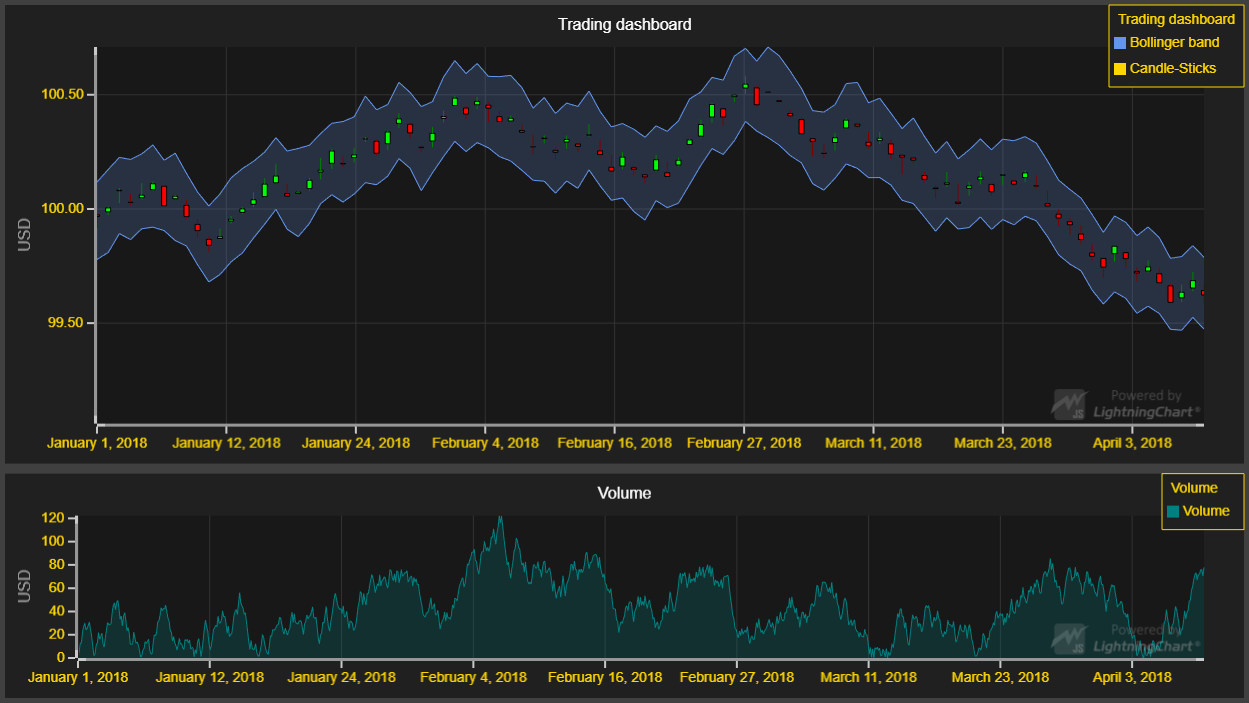
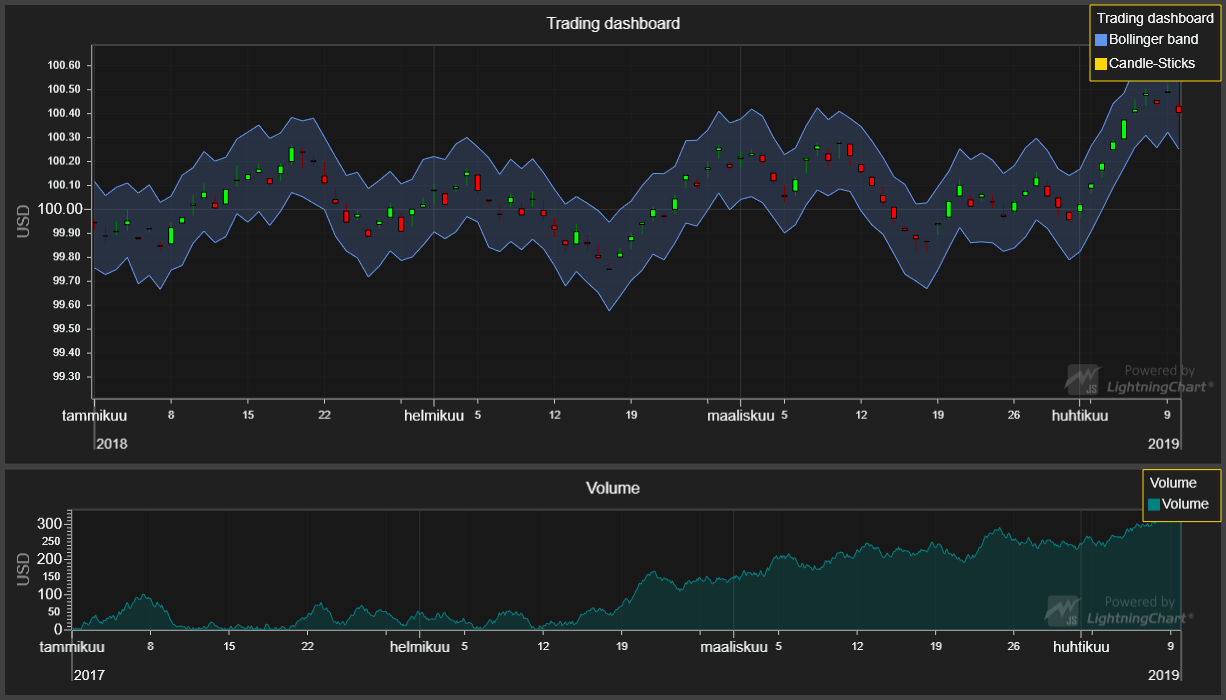
LCJS 2.0.0

diff --git a/src/index.js b/src/index.js
@@ -13,7 +13,8 @@ const {
     SolidLine,
     emptyLine,
     ColorRGBA,
-    UIOrigins
+    UIOrigins,
+    Themes
 } = lcjs
 
 // Import data-generator from 'xydata'-library.
@@ -24,6 +25,7 @@ const {
 
 // Create dashboard to house two charts
 const db = lightningChart().Dashboard({
+    // theme: Themes.dark 
     numberOfRows: 2,
     numberOfColumns: 1
 })
@@ -35,11 +37,19 @@ const chartOHLC = db.createChartXY({
     columnIndex: 0,
     rowIndex: 0,
     columnSpan: 1,
-    rowSpan: 1,
-    chartXYOptions: { defaultAxisXTickStrategy: AxisTickStrategies.DateTime(dateOrigin) }
+    rowSpan: 1
 })
+// Use DateTime TickStrategy with custom date origin for X Axis.
+chartOHLC
+    .getDefaultAxisX()
+    .setTickStrategy(
+        AxisTickStrategies.DateTime,
+        (tickStrategy) => tickStrategy.setDateOrigin(dateOrigin)
+    )
+// Modify Chart.
+chartOHLC
     .setTitle('Trading dashboard')
-    // Style AutoCursor using preset.
+    //Style AutoCursor.
     .setAutoCursor(cursor => {
         cursor.disposeTickMarkerY()
         cursor.setGridStrokeYStyle(emptyLine)
@@ -139,10 +149,17 @@ const chartVolume = db.createChartXY({
     columnIndex: 0,
     rowIndex: 1,
     columnSpan: 1,
-    rowSpan: 1,
-    chartXYOptions: { defaultAxisXTickStrategy: AxisTickStrategies.DateTime(dateOrigin) }
+    rowSpan: 1
 })
-
+// Use DateTime TickStrategy with custom date origin for X Axis.
+chartVolume
+    .getDefaultAxisX()
+    .setTickStrategy(
+        AxisTickStrategies.DateTime,
+        (tickStrategy) => tickStrategy.setDateOrigin(dateOrigin)
+    )
+// Modify Chart.
+chartVolume
     .setTitle('Volume')
     .setPadding({ right: 40 })
 // Create a LegendBox as part of the chart.
@@ -154,10 +171,20 @@ const legendBoxVolume = chartVolume.addLegendBox(LegendBoxBuilders.HorizontalLeg
 const volumeAxisY = chartVolume.getDefaultAxisY()
     .setTitle('USD')
     // Modify TickStyle to hide gridstrokes.
-    .setTickStyle(visibleTicks => visibleTicks
-        .setGridStrokeStyle(emptyLine)
+    .setTickStrategy(
+        // Base TickStrategy that should be styled.
+        AxisTickStrategies.Numeric,
+        // Modify the the tickStyles through a mutator.
+        (tickStrat) => tickStrat
+            // Modify the Major tickStyle to not render the grid strokes.
+            .setMajorTickStyle(
+                tickStyle => tickStyle.setGridStrokeStyle(emptyLine)
+            )
+            // Modify the Minor tickStyle to not render the grid strokes.
+            .setMinorTickStyle(
+                tickStyle => tickStyle.setGridStrokeStyle(emptyLine)
+            )
     )
-
 const volumeFillStyle = new SolidFill().setColor(ColorRGBA(0, 128, 128, 60))
 const volumeStrokeStyle = new SolidLine()
     .setFillStyle(volumeFillStyle.setA(255))

diff --git a/README.md b/README.md
@@ -76,15 +76,15 @@ The whole chart with contained series, the whole dashboard with contained charts
 
 ## API Links
 
-* XY cartesian chart: [ChartXY]
-* Axis: [Axis]
-* Axis tick strategies: [AxisTickStrategies]
-* Horizontal legend box: [HorizontalLegendBox]
-* Vertical legend box: [VerticalLegendBox]
-* UI position origins: [UIOrigins]
-* Solid FillStyle: [SolidFill]
-* RGBA color factory: [ColorRGBA]
-* Solid LineStyle: [SolidLine]
+* [XY cartesian chart]
+* [Axis]
+* [Axis tick strategies]
+* [Horizontal legend box]
+* [Vertical legend box]
+* [UI position origins]
+* [Solid FillStyle]
+* [RGBA color factory]
+* [Solid LineStyle]
 
 
 ## Support
@@ -108,13 +108,13 @@ Direct developer email support can be purchased through a [Support Plan][4] or b
 © Arction Ltd 2009-2020. All rights reserved.
 
 
-[ChartXY]: https://www.arction.com/lightningchart-js-api-documentation/v1.3.0/classes/chartxy.html
-[Axis]: https://www.arction.com/lightningchart-js-api-documentation/v1.3.0/classes/axis.html
-[AxisTickStrategies]: https://www.arction.com/lightningchart-js-api-documentation/v1.3.0/globals.html#axistickstrategies
-[HorizontalLegendBox]: https://www.arction.com/lightningchart-js-api-documentation/v1.3.0/globals.html#legendboxbuilders.horizontallegendbox
-[VerticalLegendBox]: https://www.arction.com/lightningchart-js-api-documentation/v1.3.0/globals.html#legendboxbuilders.verticallegendbox
-[UIOrigins]: https://www.arction.com/lightningchart-js-api-documentation/v1.3.0/globals.html#uiorigins
-[SolidFill]: https://www.arction.com/lightningchart-js-api-documentation/v1.3.0/classes/solidfill.html
-[ColorRGBA]: https://www.arction.com/lightningchart-js-api-documentation/v1.3.0/globals.html#colorrgba
-[SolidLine]: https://www.arction.com/lightningchart-js-api-documentation/v1.3.0/classes/solidline.html
+[XY cartesian chart]: https://www.arction.com/lightningchart-js-api-documentation/v2.0.0/classes/chartxy.html
+[Axis]: https://www.arction.com/lightningchart-js-api-documentation/v2.0.0/classes/axis.html
+[Axis tick strategies]: https://www.arction.com/lightningchart-js-api-documentation/v2.0.0/globals.html#axistickstrategies
+[Horizontal legend box]: https://www.arction.com/lightningchart-js-api-documentation/v2.0.0/globals.html#legendboxbuilders.horizontallegendbox
+[Vertical legend box]: https://www.arction.com/lightningchart-js-api-documentation/v2.0.0/globals.html#legendboxbuilders.verticallegendbox
+[UI position origins]: https://www.arction.com/lightningchart-js-api-documentation/v2.0.0/globals.html#uiorigins
+[Solid FillStyle]: https://www.arction.com/lightningchart-js-api-documentation/v2.0.0/classes/solidfill.html
+[RGBA color factory]: https://www.arction.com/lightningchart-js-api-documentation/v2.0.0/globals.html#colorrgba
+[Solid LineStyle]: https://www.arction.com/lightningchart-js-api-documentation/v2.0.0/classes/solidline.html
 
